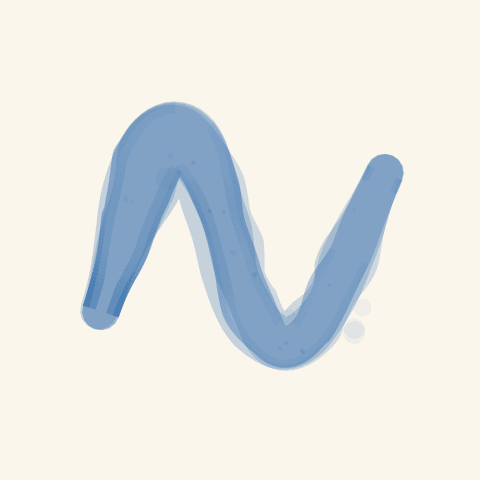
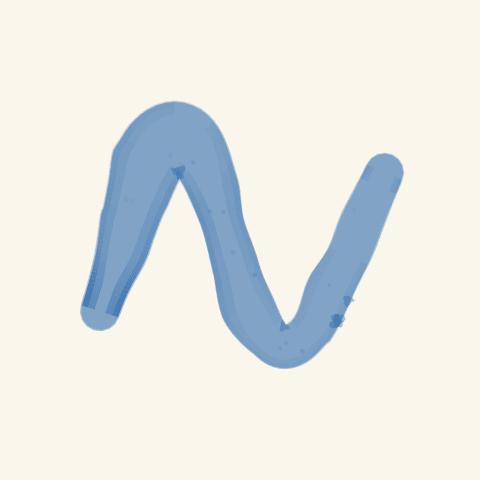
Attach the watercolor blooms and keep the fringe against the stroke.
Blooms sit on the outline as lumpy pigment instead of loose circles. Later glazes share the body's edge and only step a little past it on both sides.

diff --git a/Sources/Sketchy/Render/WatercolorStroke.swift b/Sources/Sketchy/Render/WatercolorStroke.swift
@@ -41,7 +41,9 @@ enum WatercolorStroke {
         guard let line = lines.max(by: { $0.samples.count < $1.samples.count }) else { return [] }
 
         var pieces: [RibbonPiece] = []
-        for layer in 0..<style.layers {
+        // Paler, slightly larger passes go down first. The saturated body
+        // covers them, so only a thin fringe shows past the outline.
+        for layer in stride(from: style.layers - 1, through: 0, by: -1) {
             pieces.append(contentsOf: glaze(
                 line: line,
                 width: width,
@@ -235,17 +237,44 @@ enum WatercolorStroke {
             let sample = sampleCenter(center, at: t)
             let located = StrokeCenterSample(point: sample.point, tangent: sample.forward, t: sample.t)
             let half = halfWidth(at: located, forward: sample.forward, width: width, brush: brush, style: style, layer: 0, line: line)
+            let wobble = edgeWobble(at: sample.t, side: side, width: width, style: style, layer: 0, closed: line.isClosed)
+            let edge = max(half * 0.45, half + wobble)
+            let radius = half * (0.2 + 0.14 * size)
+            // Sit on the outline so most of the bloom overlaps the body.
+            let reach = edge - radius * 0.35
             let normal = sample.forward + .pi / 2
-            let reach = half * (1.15 + 0.45 * size)
             let dot = CGPoint(
                 x: sample.point.x + cos(normal) * side * reach,
                 y: sample.point.y + sin(normal) * side * reach
             )
-            let radius = half * (0.28 + 0.22 * size)
-            let opacity = CGFloat(style.pigment) * strokeOpacity * amount * (0.08 + 0.06 * size)
-            pieces.append(RibbonPiece(path: ellipse(center: dot, radius: radius), opacity: min(0.22, opacity), t: sample.t))
+            let opacity = min(0.5, CGFloat(style.pigment) * strokeOpacity * (0.4 + 0.18 * size))
+            pieces.append(RibbonPiece(
+                path: bleedBlob(center: dot, radius: radius, seed: seed),
+                opacity: opacity,
+                t: sample.t
+            ))
         }
         return pieces
+    }
+
+    /// A lumpy puddle, not a circle, so a bleed reads as wet pigment.
+    private static func bleedBlob(center: CGPoint, radius: CGFloat, seed: UInt64) -> SwiftUI.Path {
+        var path = SwiftUI.Path()
+        let count = 14
+        for index in 0...count {
+            let angle = CGFloat(index) / CGFloat(count) * 2 * .pi
+            let noise = 0.72 + 0.5 * CGFloat(SeededNoise.unit(at: Float(index) * 0.73, seed: seed &+ UInt64(index)))
+            let lump = 0.85 + 0.22 * sin(angle * 3 + CGFloat(seed % 7))
+            let distance = radius * lump * noise
+            let point = CGPoint(x: center.x + cos(angle) * distance, y: center.y + sin(angle) * distance)
+            if index == 0 {
+                path.move(to: point)
+            } else {
+                path.addLine(to: point)
+            }
+        }
+        path.closeSubpath()
+        return path
     }
 
     /// Fine grain inside the ribbon.
@@ -404,34 +433,51 @@ enum WatercolorStroke {
             reach: 6,
             closed: line.isClosed
         )
-        let built = center.enumerated().map { index, sample -> Station in
+        var lefts = halves
+        var rights = halves
+        for index in center.indices {
             let half = halves[index]
-            var left = half
-            var right = half
-            // Only a hairpin, where the offset would cross, pulls the inside in.
-            // A normal peak stays a smooth offset, so the crotch does not crease.
-            if sample.radius < half * 0.85 {
-                let limit = max(half * 0.62, sample.radius * 0.95)
-                if sample.curvature > 0 {
-                    left = min(left, limit)
-                } else if sample.curvature < 0 {
-                    right = min(right, limit)
-                }
+            let sample = center[index]
+            // Pull the inside back only where the offset would cross, then
+            // smooth that pull so the peak does not fold into a dark triangle.
+            guard sample.radius < half * 1.05 else { continue }
+            let limit = max(half * 0.72, sample.radius * 0.92)
+            if sample.curvature > 0 {
+                lefts[index] = min(half, limit)
+            } else if sample.curvature < 0 {
+                rights[index] = min(half, limit)
             }
-            // The centreline stays smooth. Only the offset distance wobbles,
-            // and each side has its own seed so the edges do not mirror.
-            left += edgeWobble(at: sample.t, side: 1, width: width, style: style, layer: layer, closed: line.isClosed)
-            right += edgeWobble(at: sample.t, side: -1, width: width, style: style, layer: layer, closed: line.isClosed)
+        }
+        lefts = smoothScalars(lefts, reach: 8, closed: line.isClosed)
+        rights = smoothScalars(rights, reach: 8, closed: line.isClosed)
+        let built = center.enumerated().map { index, sample -> Station in
+            var left = lefts[index]
+            var right = rights[index]
+            // Layer 0 is the ragged body. Later glazes share that edge and only
+            // step a little past it on both sides, so a pale layer cannot drift
+            // off and read as a drop shadow.
+            let leftWobble = edgeWobble(at: sample.t, side: 1, width: width, style: style, layer: 0, closed: line.isClosed)
+            let rightWobble = edgeWobble(at: sample.t, side: -1, width: width, style: style, layer: 0, closed: line.isClosed)
+            if layer == 0 {
+                left += leftWobble
+                right += rightWobble
+            } else {
+                let flutter = signed(
+                    sample.t,
+                    cycles: 11,
+                    seed: style.seed &+ UInt64(layer) &* 23,
+                    closed: line.isClosed
+                ) * width * 0.012
+                let step = width * 0.012 * CGFloat(layer) + flutter
+                left += leftWobble + step
+                right += rightWobble + step
+            }
             left = max(0.35, left)
             right = max(0.35, right)
-            let shift = shiftAmount(at: sample.t, closed: line.isClosed, style: style, width: width, layer: layer)
             let normalAngle = sample.forward + .pi / 2
             let nx = cos(normalAngle)
             let ny = sin(normalAngle)
-            let point = CGPoint(
-                x: sample.point.x + nx * shift,
-                y: sample.point.y + ny * shift
-            )
+            let point = sample.point
             let innerScale = 1 - 0.22 * CGFloat(style.edgeDarkening)
             return Station(
                 center: point,
@@ -800,20 +846,6 @@ enum WatercolorStroke {
         path.addLine(to: d)
         path.closeSubpath()
         return path
-    }
-
-    private static func shiftAmount(
-        at t: CGFloat,
-        closed: Bool,
-        style: WatercolorStyle,
-        width: CGFloat,
-        layer: Int
-    ) -> CGFloat {
-        let amount = CGFloat(style.wetness) * width * 0.07
-        let raw = signed(t, cycles: 2.2, seed: style.seed &+ UInt64(layer) &* 0x9E37_79B9_7F4A_7C15, closed: closed) * amount
-        guard closed else { return raw }
-        let join = signed(0, cycles: 2.2, seed: style.seed &+ UInt64(layer) &* 0x9E37_79B9_7F4A_7C15, closed: true) * amount
-        return seamBlend(value: raw, toward: join, t: t, window: 0.1)
     }
 
     private static func ellipse(center: CGPoint, radius: CGFloat) -> SwiftUI.Path {
